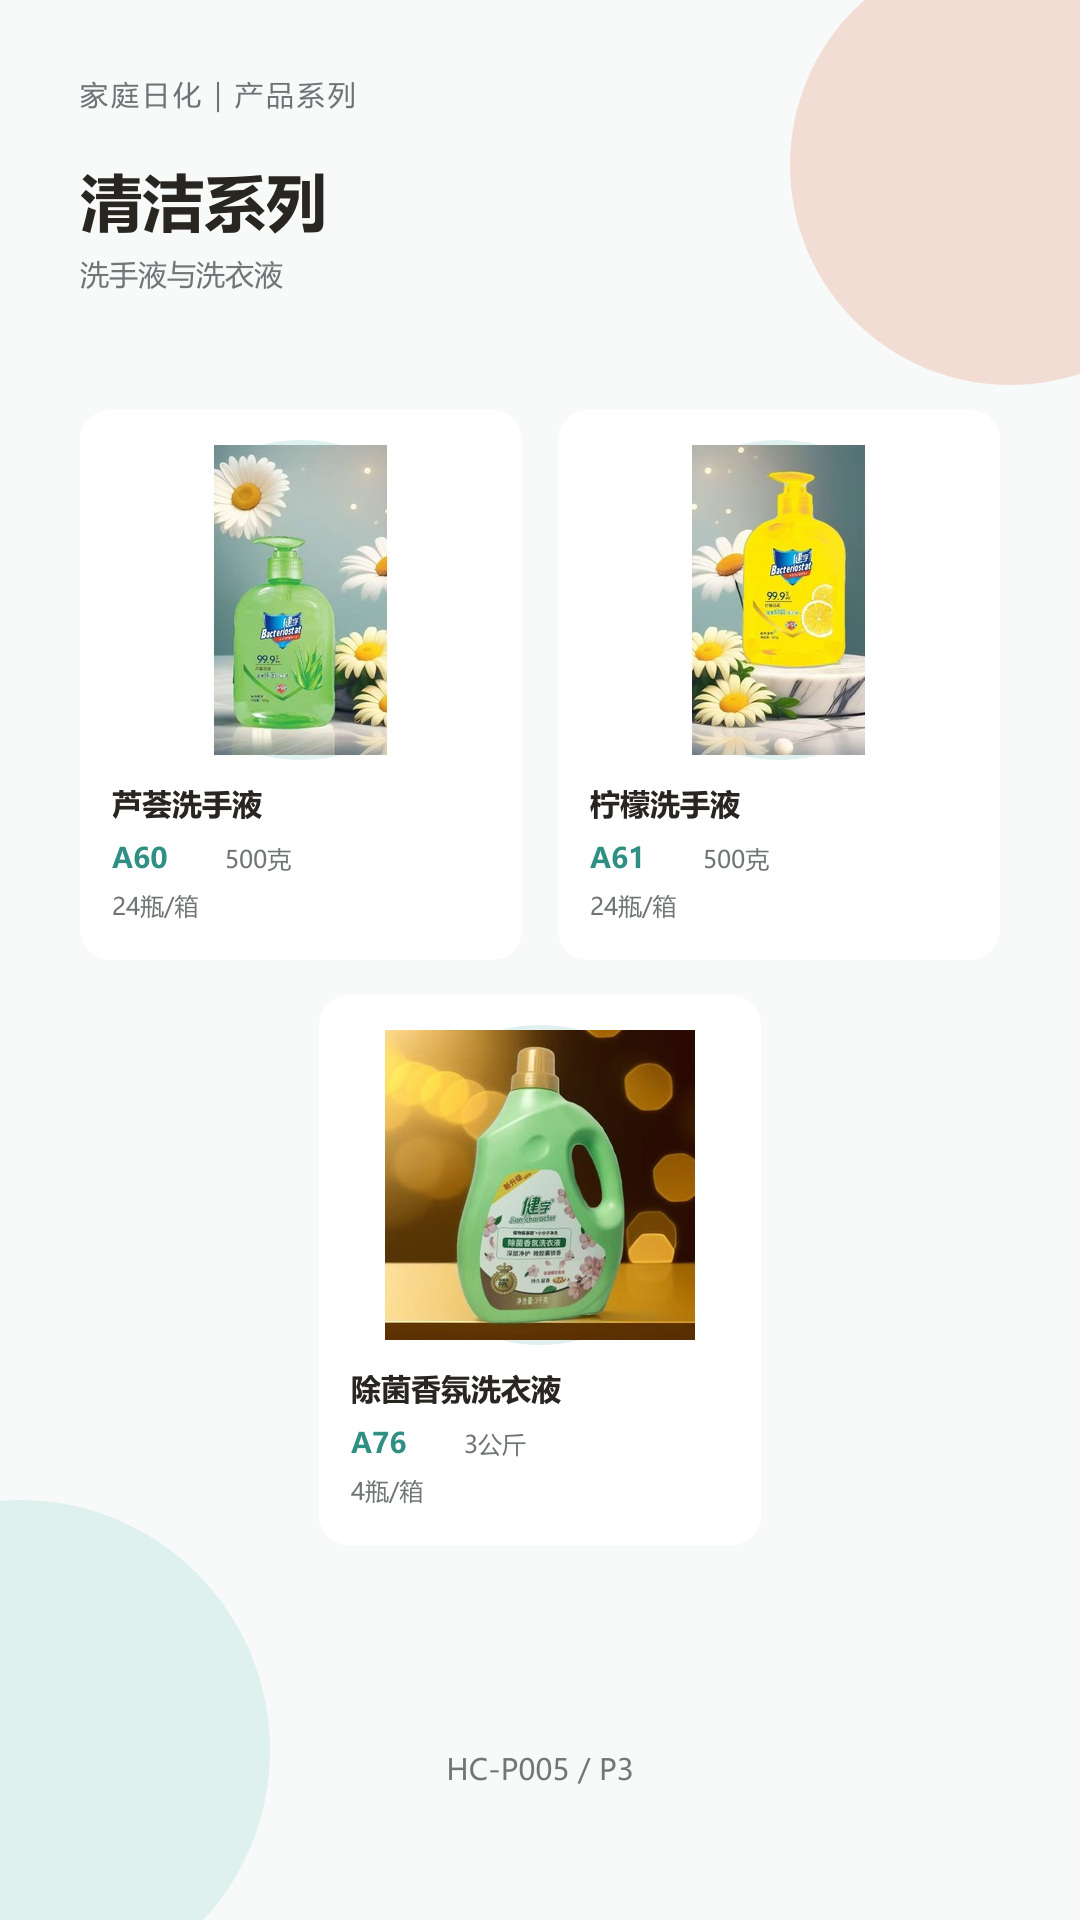
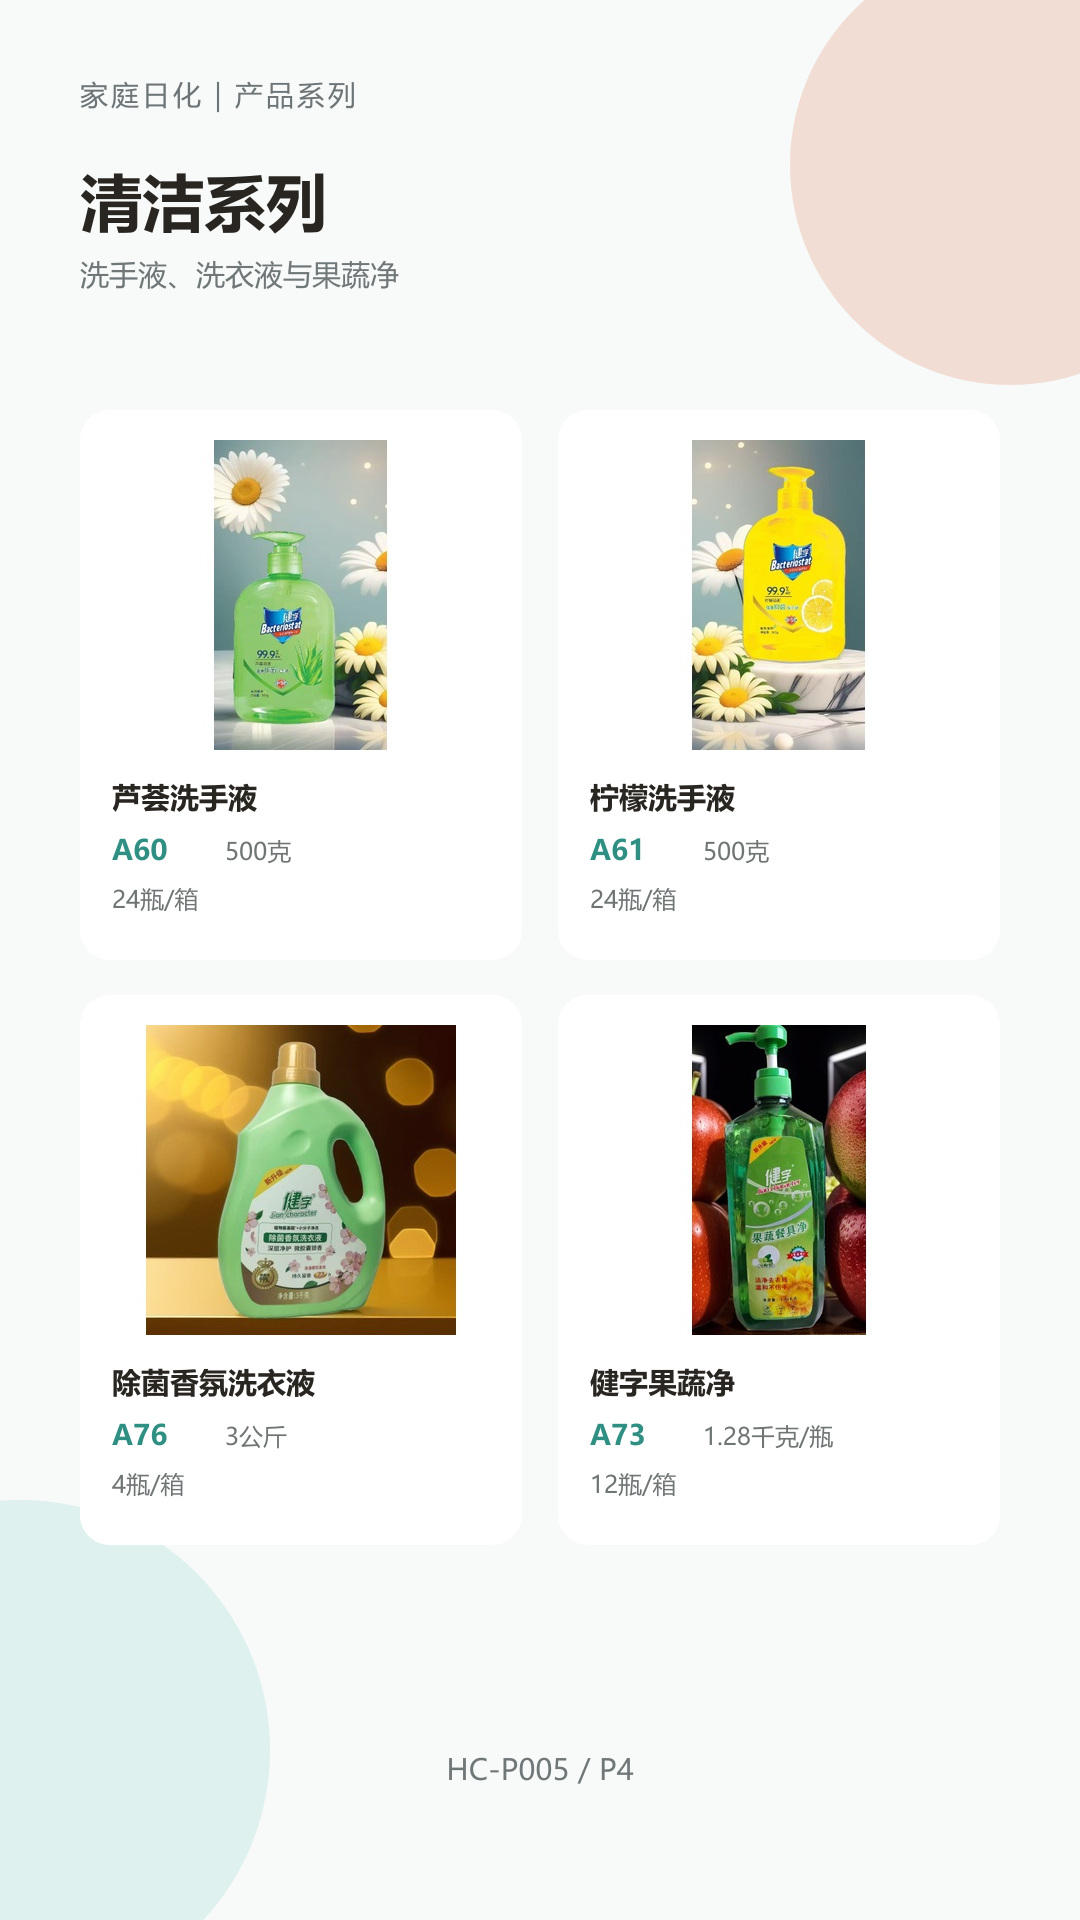
扩充日化清洁及空气清新剂产品页面

diff --git a/index.html b/index.html
@@ -4,68 +4,69 @@
   <meta charset="utf-8">
   <meta name="viewport" content="width=device-width,initial-scale=1,viewport-fit=cover">
   <meta name="theme-color" content="#f7f3ec">
-  <title>联合家化产品电子书｜专题6</title>
+  <title>鑱斿悎瀹跺寲浜у搧鐢靛瓙涔︼綔涓撻6</title>
   <link rel="icon" href="icon-192.png">
   <link rel="manifest" href="manifest.webmanifest">
   <link rel="stylesheet" href="style.css">
 </head>
 <body>
   <header class="topbar">
-    <button id="menuBtn" class="icon-btn" aria-label="打开搜索">搜索</button>
-    <div class="heading"><strong id="pageTitle">联合家化产品电子书</strong><span id="pageMeta">专题6</span></div>
-    <button id="homeBtn" class="icon-btn" aria-label="返回主目录">主目录</button>
+    <button id="menuBtn" class="icon-btn" aria-label="鎵撳紑鎼滅储">鎼滅储</button>
+    <div class="heading"><strong id="pageTitle">鑱斿悎瀹跺寲浜у搧鐢靛瓙涔?/strong><span id="pageMeta">涓撻6</span></div>
+    <button id="homeBtn" class="icon-btn" aria-label="杩斿洖涓荤洰褰?>涓荤洰褰?/button>
   </header>
   <main id="viewer" class="viewer" aria-live="polite">
-    <button id="prevTap" class="tap-zone left" aria-label="上一页"></button>
-    <figure class="page"><img id="pageImage" alt="" draggable="false"><div id="hotspots" class="hotspots"></div><div id="loading">正在加载…</div></figure>
-    <button id="nextTap" class="tap-zone right" aria-label="下一页"></button>
+    <button id="prevTap" class="tap-zone left" aria-label="涓婁竴椤?></button>
+    <figure class="page"><img id="pageImage" alt="" draggable="false"><div id="hotspots" class="hotspots"></div><div id="loading">姝ｅ湪鍔犺浇鈥?/div></figure>
+    <button id="nextTap" class="tap-zone right" aria-label="涓嬩竴椤?></button>
   </main>
-  <nav class="bottomnav" aria-label="阅读导航">
-    <button id="prevBtn">上一页</button><span id="counter">1 / 29</span><button id="nextBtn">下一页</button>
+  <nav class="bottomnav" aria-label="闃呰瀵艰埅">
+    <button id="prevBtn">涓婁竴椤?/button><span id="counter">1 / 29</span><button id="nextBtn">涓嬩竴椤?/button>
   </nav>
   <aside id="drawer" class="drawer" aria-hidden="true">
-    <div class="drawer-head"><strong>全书目录</strong><button id="closeBtn" aria-label="关闭目录">关闭</button></div>
-    <label class="search"><span>搜索</span><input id="search" type="search" placeholder="输入企业、品牌、产品或合作内容"></label>
+    <div class="drawer-head"><strong>鍏ㄤ功鐩綍</strong><button id="closeBtn" aria-label="鍏抽棴鐩綍">鍏抽棴</button></div>
+    <label class="search"><span>鎼滅储</span><input id="search" type="search" placeholder="杈撳叆浼佷笟銆佸搧鐗屻€佷骇鍝佹垨鍚堜綔鍐呭"></label>
     <div id="toc" class="toc"></div>
   </aside>
   <div id="shade" class="shade" hidden></div>
-  <div id="lightbox" class="lightbox" hidden><button id="lightboxClose" aria-label="关闭放大图片">×</button><img id="lightboxImage" alt=""><div id="lightboxCaption"></div></div>
+  <div id="lightbox" class="lightbox" hidden><button id="lightboxClose" aria-label="鍏抽棴鏀惧ぇ鍥剧墖">脳</button><img id="lightboxImage" alt=""><div id="lightboxCaption"></div></div>
   <script>
 const pages = [
-  {id:"COVER",title:"封面",section:"全书",src:"pages/COVER.jpg"},
-  {id:"ENT-INTRO",title:"企业资质",section:"企业篇",src:"pages/ENT-INTRO.jpg"},
-  {id:"ENT-MARKET",title:"市场布局",section:"企业篇",src:"pages/ENT-MARKET.jpg"},
-  {id:"DIR-001",title:"全书主目录",section:"全书",src:"pages/DIR-001.jpg"},
-  {id:"SEC-JZ",title:"健字产品专区",section:"健字",src:"pages/SEC-JZ.jpg"},
-  {id:"JZ-P001",title:"健字气雾剂系列",section:"健字",src:"pages/JZ-P001.jpg"},
-  {id:"JZ-P001B",title:"健字气雾剂系列（二）",section:"健字",src:"pages/JZ-P001B.jpg"},
-  {id:"JZ-P008",title:"健字呋虫胺系列",section:"健字",src:"pages/JZ-P008.jpg"},
-  {id:"JZ-P002",title:"免拆桶装蚊香",section:"健字",src:"pages/JZ-P002.jpg"},
-  {id:"JZ-P010",title:"大盘桶装蚊香",section:"健字",src:"pages/JZ-P010.jpg"},
-  {id:"JZ-P003",title:"电热蚊香液系列（一）",section:"健字",src:"pages/JZ-P003.jpg"},
-  {id:"JZ-P004",title:"电热蚊香液系列（二）",section:"健字",src:"pages/JZ-P004.jpg"},
-  {id:"JZ-P005",title:"电热蚊香片系列",section:"健字",src:"pages/JZ-P005.jpg"},
-  {id:"JZ-P007",title:"盘式蚊香系列",section:"健字",src:"pages/JZ-P007.jpg"},
-  {id:"JZ-P009",title:"纸竹纤维蚊香",section:"健字",src:"pages/JZ-P009.jpg"},
-  {id:"SEC-YJ",title:"鹰剑产品专区",section:"鹰剑",src:"pages/SEC-YJ.jpg"},
-  {id:"YJ-P001",title:"电热驱蚊系列",section:"鹰剑",src:"pages/YJ-P001.jpg"},
-  {id:"YJ-P002",title:"超大盘宝宝方塑蚊香",section:"鹰剑",src:"pages/YJ-P002.jpg"},
-  {id:"YJ-P003",title:"气雾剂系列（一）",section:"鹰剑",src:"pages/YJ-P003.jpg"},
-  {id:"YJ-P004",title:"气雾剂系列（二）",section:"鹰剑",src:"pages/YJ-P004.jpg"},
-  {id:"SEC-JGB",title:"金箍棒产品专区",section:"金箍棒",src:"pages/SEC-JGB.jpg"},
-  {id:"JGB-P001",title:"金箍棒气雾剂系列",section:"金箍棒",src:"pages/JGB-P001.jpg"},
-  {id:"JGB-P002",title:"金箍棒电热蚊香液系列",section:"金箍棒",src:"pages/JGB-P002.jpg"},
-  {id:"SEC-LS",title:"力沙气雾杀虫剂",section:"力沙",src:"pages/SEC-LS.jpg"},
-  {id:"SEC-HC",title:"家庭日化产品专区",section:"家庭日化",src:"pages/SEC-HC.jpg"},
-  {id:"HC-P001",title:"花露水系列",section:"家庭日化",src:"pages/HC-P001.jpg"},
-  {id:"HC-P002",title:"健字厕净（柠檬香）",section:"家庭日化",src:"pages/HC-P002.jpg"},
-  {id:"HC-P004",title:"厨房油污净系列",section:"家庭日化",src:"pages/HC-P004.jpg"},
-  {id:"HC-P005",title:"清洁系列",section:"家庭日化",src:"pages/HC-P005.jpg"},
-  {id:"HC-P003",title:"空气清新剂系列",section:"家庭日化",src:"pages/HC-P003.jpg"},
-  {id:"COOP-001",title:"选择联合家化",section:"招商合作",src:"pages/COOP-001.jpg"},
-  {id:"COOP-002",title:"渠道合作价值",section:"招商合作",src:"pages/COOP-002.jpg"},
-  {id:"COOP-003",title:"合作模式",section:"招商合作",src:"pages/COOP-003.jpg"},
-  {id:"CONTACT",title:"联系方式",section:"联系我们",src:"pages/CONTACT.jpg"}
+  {id:"COVER",title:"灏侀潰",section:"鍏ㄤ功",src:"pages/COVER.jpg"},
+  {id:"ENT-INTRO",title:"浼佷笟璧勮川",section:"浼佷笟绡?,src:"pages/ENT-INTRO.jpg"},
+  {id:"ENT-MARKET",title:"甯傚満甯冨眬",section:"浼佷笟绡?,src:"pages/ENT-MARKET.jpg"},
+  {id:"DIR-001",title:"鍏ㄤ功涓荤洰褰?,section:"鍏ㄤ功",src:"pages/DIR-001.jpg"},
+  {id:"SEC-JZ",title:"鍋ュ瓧浜у搧涓撳尯",section:"鍋ュ瓧",src:"pages/SEC-JZ.jpg"},
+  {id:"JZ-P001",title:"鍋ュ瓧姘旈浘鍓傜郴鍒?,section:"鍋ュ瓧",src:"pages/JZ-P001.jpg"},
+  {id:"JZ-P001B",title:"鍋ュ瓧姘旈浘鍓傜郴鍒楋紙浜岋級",section:"鍋ュ瓧",src:"pages/JZ-P001B.jpg"},
+  {id:"JZ-P008",title:"鍋ュ瓧鍛嬭櫕鑳虹郴鍒?,section:"鍋ュ瓧",src:"pages/JZ-P008.jpg"},
+  {id:"JZ-P002",title:"鍏嶆媶妗惰铓婇",section:"鍋ュ瓧",src:"pages/JZ-P002.jpg"},
+  {id:"JZ-P010",title:"澶х洏妗惰铓婇",section:"鍋ュ瓧",src:"pages/JZ-P010.jpg"},
+  {id:"JZ-P003",title:"鐢电儹铓婇娑茬郴鍒楋紙涓€锛?,section:"鍋ュ瓧",src:"pages/JZ-P003.jpg"},
+  {id:"JZ-P004",title:"鐢电儹铓婇娑茬郴鍒楋紙浜岋級",section:"鍋ュ瓧",src:"pages/JZ-P004.jpg"},
+  {id:"JZ-P005",title:"鐢电儹铓婇鐗囩郴鍒?,section:"鍋ュ瓧",src:"pages/JZ-P005.jpg"},
+  {id:"JZ-P007",title:"鐩樺紡铓婇绯诲垪",section:"鍋ュ瓧",src:"pages/JZ-P007.jpg"},
+  {id:"JZ-P009",title:"绾哥绾ょ淮铓婇",section:"鍋ュ瓧",src:"pages/JZ-P009.jpg"},
+  {id:"SEC-YJ",title:"楣板墤浜у搧涓撳尯",section:"楣板墤",src:"pages/SEC-YJ.jpg"},
+  {id:"YJ-P001",title:"鐢电儹椹辫殜绯诲垪",section:"楣板墤",src:"pages/YJ-P001.jpg"},
+  {id:"YJ-P002",title:"瓒呭ぇ鐩樺疂瀹濇柟濉戣殜棣?,section:"楣板墤",src:"pages/YJ-P002.jpg"},
+  {id:"YJ-P003",title:"姘旈浘鍓傜郴鍒楋紙涓€锛?,section:"楣板墤",src:"pages/YJ-P003.jpg"},
+  {id:"YJ-P004",title:"姘旈浘鍓傜郴鍒楋紙浜岋級",section:"楣板墤",src:"pages/YJ-P004.jpg"},
+  {id:"SEC-JGB",title:"閲戠畭妫掍骇鍝佷笓鍖?,section:"閲戠畭妫?,src:"pages/SEC-JGB.jpg"},
+  {id:"JGB-P001",title:"閲戠畭妫掓皵闆惧墏绯诲垪",section:"閲戠畭妫?,src:"pages/JGB-P001.jpg"},
+  {id:"JGB-P002",title:"閲戠畭妫掔數鐑殜棣欐恫绯诲垪",section:"閲戠畭妫?,src:"pages/JGB-P002.jpg"},
+  {id:"SEC-LS",title:"鍔涙矙姘旈浘鏉€铏墏",section:"鍔涙矙",src:"pages/SEC-LS.jpg"},
+  {id:"SEC-HC",title:"瀹跺涵鏃ュ寲浜у搧涓撳尯",section:"瀹跺涵鏃ュ寲",src:"pages/SEC-HC.jpg"},
+  {id:"HC-P001",title:"鑺遍湶姘寸郴鍒?,section:"瀹跺涵鏃ュ寲",src:"pages/HC-P001.jpg"},
+  {id:"HC-P002",title:"鍋ュ瓧鍘曞噣锛堟煚妾锛?,section:"瀹跺涵鏃ュ寲",src:"pages/HC-P002.jpg"},
+  {id:"HC-P004",title:"鍘ㄦ埧娌规薄鍑€绯诲垪",section:"瀹跺涵鏃ュ寲",src:"pages/HC-P004.jpg"},
+  {id:"HC-P005",title:"娓呮磥绯诲垪",section:"瀹跺涵鏃ュ寲",src:"pages/HC-P005.jpg"},
+  {id:"HC-P003",title:"绌烘皵娓呮柊鍓傜郴鍒楋紙涓€锛?,section:"瀹跺涵鏃ュ寲",src:"pages/HC-P003.jpg"},
+  {id:"HC-P006",title:"绌烘皵娓呮柊鍓傜郴鍒楋紙浜岋級",section:"瀹跺涵鏃ュ寲",src:"pages/HC-P006.jpg"},
+  {id:"COOP-001",title:"閫夋嫨鑱斿悎瀹跺寲",section:"鎷涘晢鍚堜綔",src:"pages/COOP-001.jpg"},
+  {id:"COOP-002",title:"娓犻亾鍚堜綔浠峰€?,section:"鎷涘晢鍚堜綔",src:"pages/COOP-002.jpg"},
+  {id:"COOP-003",title:"鍚堜綔妯″紡",section:"鎷涘晢鍚堜綔",src:"pages/COOP-003.jpg"},
+  {id:"CONTACT",title:"鑱旂郴鏂瑰紡",section:"鑱旂郴鎴戜滑",src:"pages/CONTACT.jpg"}
 ];
 const byId = Object.fromEntries(pages.map((p,i)=>[p.id,i]));
 let current = Math.max(0, byId[location.hash.slice(1)] ?? 0);
@@ -78,38 +79,38 @@ const shade = document.querySelector('#shade');
 const toc = document.querySelector('#toc');
 function preload(i) { if (pages[i]) { const x=new Image(); x.src=pages[i].src; } }
 const links = {
-  'COVER': [[0,0,100,100,'DIR-001','进入全书主目录']],
+  'COVER': [[0,0,100,100,'DIR-001','杩涘叆鍏ㄤ功涓荤洰褰?]],
   'DIR-001': [
-    [7.4,22.4,85.2,12.3,'ENT-INTRO','进入企业篇'],[7.4,37.2,85.2,12.3,'SEC-JZ','进入品牌与产品'],
-    [7.4,52.1,85.2,12.3,'COOP-001','进入招商合作'],[7.4,66.9,85.2,12.3,'CONTACT','进入联系方式']],
-  'ENT-MARKET': [[7.4,77.0,85.2,8.5,'SEC-JZ','查看品牌与产品']],
-  'ENT-INTRO': [[10.2,36.7,38,14.8,'@asset:营业执照.jpg','查看营业执照大图'],[51.8,36.7,38,14.8,'@asset:农药生产许可证.jpg','查看农药生产许可证大图'],[10.2,51.9,38,14.8,'@asset:农药登记证_代表证.jpg','查看农药登记证大图'],[51.8,51.9,38,14.8,'@asset:河北省科技型中小企业.jpg','查看科技型中小企业证书大图']],
+    [7.4,22.4,85.2,12.3,'ENT-INTRO','杩涘叆浼佷笟绡?],[7.4,37.2,85.2,12.3,'SEC-JZ','杩涘叆鍝佺墝涓庝骇鍝?],
+    [7.4,52.1,85.2,12.3,'COOP-001','杩涘叆鎷涘晢鍚堜綔'],[7.4,66.9,85.2,12.3,'CONTACT','杩涘叆鑱旂郴鏂瑰紡']],
+  'ENT-MARKET': [[7.4,77.0,85.2,8.5,'SEC-JZ','鏌ョ湅鍝佺墝涓庝骇鍝?]],
+  'ENT-INTRO': [[10.2,36.7,38,14.8,'@asset:钀ヤ笟鎵х収.jpg','鏌ョ湅钀ヤ笟鎵х収澶у浘'],[51.8,36.7,38,14.8,'@asset:鍐滆嵂鐢熶骇璁稿彲璇?jpg','鏌ョ湅鍐滆嵂鐢熶骇璁稿彲璇佸ぇ鍥?],[10.2,51.9,38,14.8,'@asset:鍐滆嵂鐧昏璇乢浠ｈ〃璇?jpg','鏌ョ湅鍐滆嵂鐧昏璇佸ぇ鍥?],[51.8,51.9,38,14.8,'@asset:娌冲寳鐪佺鎶€鍨嬩腑灏忎紒涓?jpg','鏌ョ湅绉戞妧鍨嬩腑灏忎紒涓氳瘉涔﹀ぇ鍥?]],
   'SEC-JZ': ['JZ-P001','JZ-P001B','JZ-P008','JZ-P002','JZ-P010','JZ-P003','JZ-P004','JZ-P005','JZ-P007'],
   'SEC-YJ': ['YJ-P001','YJ-P002','YJ-P003','YJ-P004'],
   'SEC-JGB': ['JGB-P001','JGB-P002'],
-  'SEC-HC': ['HC-P001','HC-P002','HC-P004','HC-P005','HC-P003'],
-  'CONTACT': [[7.4,43.5,85.2,12,'@tel','拨打0312-2161615'],[7.4,87.5,85.2,6.5,'DIR-001','返回全书主目录']]
+  'SEC-HC': ['HC-P001','HC-P002','HC-P004','HC-P005','HC-P003','HC-P006'],
+  'CONTACT': [[7.4,43.5,85.2,12,'@tel','鎷ㄦ墦0312-2161615'],[7.4,87.5,85.2,6.5,'DIR-001','杩斿洖鍏ㄤ功涓荤洰褰?]]
 };
 const productImages={
  'JZ-P001':['015','018','025','022'],'JZ-P001B':['016','017','026'],'JZ-P008':['A80','A77'],'JZ-P002':['063','064'],
  'JZ-P010':['JZB1','JZB2'],'JZ-P003':['089','006','007','003'],'JZ-P004':['058','053'],'JZ-P005':['008','004','005','A24'],'JZ-P007':['A08','083','088','081'],'JZ-P009':['A79'],
  'YJ-P001':['049','050','059','060'],'YJ-P002':['045','B07'],'YJ-P003':['B03','020','023','B01'],'YJ-P004':['021'],'SEC-LS':['D01'],
- 'JGB-P001':['091','024','027'],'JGB-P002':['071','070','068','069'],'HC-P001':['035','067','065'],'HC-P002':['010','A51','A67'],'HC-P004':['A57'],'HC-P005':['A60','A61','A76'],'HC-P003':['030','028','029','031']};
+ 'JGB-P001':['091','024','027'],'JGB-P002':['071','070','068','069'],'HC-P001':['035','067','065'],'HC-P002':['010','A51','A67'],'HC-P004':['A57','A71'],'HC-P005':['A60','A61','A76','A73'],'HC-P003':['030','028','029','031'],'HC-P006':['A86','A88','A85']};
 const productLayout={4:[[7.4,21.3,40.9,28.6],[51.7,21.3,40.9,28.6],[7.4,51.9,40.9,28.6],[51.7,51.9,40.9,28.6]],3:[[7.4,21.3,40.9,28.6],[51.7,21.3,40.9,28.6],[29.5,51.9,40.9,28.6]],2:[[7.4,21.5,85.2,26.8],[7.4,50.5,85.2,26.8]],1:[[7.4,21.5,85.2,55.0]]};
-const productPositions={'YJ-P002':[[7.4,26.0,40.9,34.0],[51.7,26.0,40.9,34.0]],'YJ-P004':[[29.5,26.0,40.9,34.0]],'HC-P004':[[29.5,26.0,40.9,34.0]]};
+const productPositions={'YJ-P002':[[7.4,26.0,40.9,34.0],[51.7,26.0,40.9,34.0]],'YJ-P004':[[29.5,26.0,40.9,34.0]],'HC-P004':[[7.4,26.0,40.9,34.0],[51.7,26.0,40.9,34.0]]};
 function openLightbox(src,label){lightboxImage.src=src;lightboxImage.alt=label;lightboxCaption.textContent=label;lightbox.hidden=false;document.body.classList.add('modal-open')}
 function closeLightbox(){lightbox.hidden=true;lightboxImage.src='';document.body.classList.remove('modal-open')}
-function sectionLinks(ids) { return ids.map((id,n)=>[(ids.length%2===1&&n===ids.length-1)?29.5:7.4+(n%2)*44.3,21.1+Math.floor(n/2)*14.3,40.9,12.2,id,'进入'+pages[byId[id]].title]); }
-function sectionLinksJz(ids) { return ids.map((id,n)=>[(ids.length%2===1&&n===ids.length-1)?30.5:6.5+(n%2)*48.1,19.3+Math.floor(n/2)*12.8,38.9,10.9,id,'进入'+pages[byId[id]].title]); }
+function sectionLinks(ids) { return ids.map((id,n)=>[(ids.length%2===1&&n===ids.length-1)?29.5:7.4+(n%2)*44.3,21.1+Math.floor(n/2)*14.3,40.9,12.2,id,'杩涘叆'+pages[byId[id]].title]); }
+function sectionLinksJz(ids) { return ids.map((id,n)=>[(ids.length%2===1&&n===ids.length-1)?30.5:6.5+(n%2)*48.1,19.3+Math.floor(n/2)*12.8,38.9,10.9,id,'杩涘叆'+pages[byId[id]].title]); }
 function renderHotspots(p) {
   hotspots.innerHTML=''; let items=links[p.id]||[]; if(items.length && typeof items[0]==='string') items=p.id==='SEC-JZ'?sectionLinksJz(items):sectionLinks(items);
   if(p.id==='COVER') items=[];
-  items.forEach(([x,y,w,h,target,label])=>{const b=document.createElement('button');b.className='hotspot';b.style.cssText=`left:${x}%;top:${y}%;width:${w}%;height:${h}%`;b.setAttribute('aria-label',label);if(p.id!=='SEC-JZ'&&p.id!=='BRANDS'&&label&&label.includes('进入')){const t=document.createElement('span');t.className='pulse-link';t.innerHTML='进入 <span class="pulse-arrow">→</span>';b.append(t)}b.onclick=()=>{if(target==='@tel'){location.href='tel:03122161615';return}if(target.startsWith('@asset:')){window.open('assets/'+encodeURIComponent(target.slice(7)),'_blank');return}show(byId[target])};hotspots.append(b);});
-  const ids=productImages[p.id];if(ids){const pos=productPositions[p.id]||(p.id==='JZ-P008'?[[7.4,31.8,40.9,33.9],[51.7,31.8,40.9,33.9]]:productLayout[ids.length]);ids.forEach((n,i)=>{const [x,y,w,h]=pos[i];const b=document.createElement('button');b.className='hotspot product-hotspot';b.style.cssText=`left:${x}%;top:${y}%;width:${w}%;height:${h}%`;b.setAttribute('aria-label','点击放大产品图片 '+n);b.onclick=e=>{e.stopPropagation();openLightbox('assets/products/IMG_'+n+'.jpg','真实产品图片 '+n)};hotspots.append(b)})}
-  if(p.id==='COVER'){const b=document.createElement('button');b.className='cover-pulse';b.textContent='进入全书主目录';b.onclick=()=>show(byId['DIR-001']);hotspots.append(b)}
-  if(p.id==='ENT-MARKET'){const b=document.createElement('span');b.className='market-pulse';b.textContent='查看品牌与产品';hotspots.append(b)}
-  if(p.id==='SEC-JZ'){const t=document.createElement('div');t.className='choose-product-tip';t.innerHTML='<span>☝</span><strong>点击方框选择产品</strong>';hotspots.append(t)}
-  if(ids){const t=document.createElement('div');t.className='product-zoom-tip';t.textContent='点击图片可放大';hotspots.append(t)}
+  items.forEach(([x,y,w,h,target,label])=>{const b=document.createElement('button');b.className='hotspot';b.style.cssText=`left:${x}%;top:${y}%;width:${w}%;height:${h}%`;b.setAttribute('aria-label',label);if(p.id!=='SEC-JZ'&&p.id!=='BRANDS'&&label&&label.includes('杩涘叆')){const t=document.createElement('span');t.className='pulse-link';t.innerHTML='杩涘叆 <span class="pulse-arrow">鈫?/span>';b.append(t)}b.onclick=()=>{if(target==='@tel'){location.href='tel:03122161615';return}if(target.startsWith('@asset:')){window.open('assets/'+encodeURIComponent(target.slice(7)),'_blank');return}show(byId[target])};hotspots.append(b);});
+  const ids=productImages[p.id];if(ids){const pos=productPositions[p.id]||(p.id==='JZ-P008'?[[7.4,31.8,40.9,33.9],[51.7,31.8,40.9,33.9]]:productLayout[ids.length]);ids.forEach((n,i)=>{const [x,y,w,h]=pos[i];const b=document.createElement('button');b.className='hotspot product-hotspot';b.style.cssText=`left:${x}%;top:${y}%;width:${w}%;height:${h}%`;b.setAttribute('aria-label','鐐瑰嚮鏀惧ぇ浜у搧鍥剧墖 '+n);b.onclick=e=>{e.stopPropagation();openLightbox('assets/products/IMG_'+n+'.jpg','鐪熷疄浜у搧鍥剧墖 '+n)};hotspots.append(b)})}
+  if(p.id==='COVER'){const b=document.createElement('button');b.className='cover-pulse';b.textContent='杩涘叆鍏ㄤ功涓荤洰褰?;b.onclick=()=>show(byId['DIR-001']);hotspots.append(b)}
+  if(p.id==='ENT-MARKET'){const b=document.createElement('span');b.className='market-pulse';b.textContent='鏌ョ湅鍝佺墝涓庝骇鍝?;hotspots.append(b)}
+  if(p.id==='SEC-JZ'){const t=document.createElement('div');t.className='choose-product-tip';t.innerHTML='<span>鈽?/span><strong>鐐瑰嚮鏂规閫夋嫨浜у搧</strong>';hotspots.append(t)}
+  if(ids){const t=document.createElement('div');t.className='product-zoom-tip';t.textContent='鐐瑰嚮鍥剧墖鍙斁澶?;hotspots.append(t)}
 }
 function show(i, push=true) {
   current=Math.max(0,Math.min(pages.length-1,i)); const p=pages[current]; loading.hidden=false; image.classList.remove('ready');

diff --git a/sw.js b/sw.js
@@ -1,1 +1,1 @@
-const C='topic6-v1-repair-complete-images-20260814';const CORE=['./','./index.html','./style.css','./manifest.webmanifest','./icon-192.png'];self.addEventListener('install',e=>e.waitUntil(caches.open(C).then(c=>c.addAll(CORE)).then(()=>self.skipWaiting())));self.addEventListener('activate',e=>e.waitUntil(caches.keys().then(keys=>Promise.all(keys.filter(k=>k!==C).map(k=>caches.delete(k)))).then(()=>self.clients.claim())));self.addEventListener('fetch',e=>e.respondWith(caches.match(e.request).then(r=>r||fetch(e.request).then(x=>{const y=x.clone();caches.open(C).then(c=>c.put(e.request,y));return x;}))));
+const C='topic6-v1-catalog-35pages-20260814';const CORE=['./','./index.html','./style.css','./manifest.webmanifest','./icon-192.png'];self.addEventListener('install',e=>e.waitUntil(caches.open(C).then(c=>c.addAll(CORE)).then(()=>self.skipWaiting())));self.addEventListener('activate',e=>e.waitUntil(caches.keys().then(keys=>Promise.all(keys.filter(k=>k!==C).map(k=>caches.delete(k)))).then(()=>self.clients.claim())));self.addEventListener('fetch',e=>e.respondWith(caches.match(e.request).then(r=>r||fetch(e.request).then(x=>{const y=x.clone();caches.open(C).then(c=>c.put(e.request,y));return x;}))));
